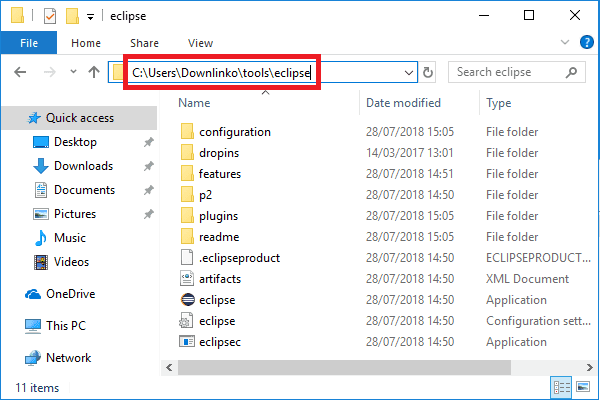
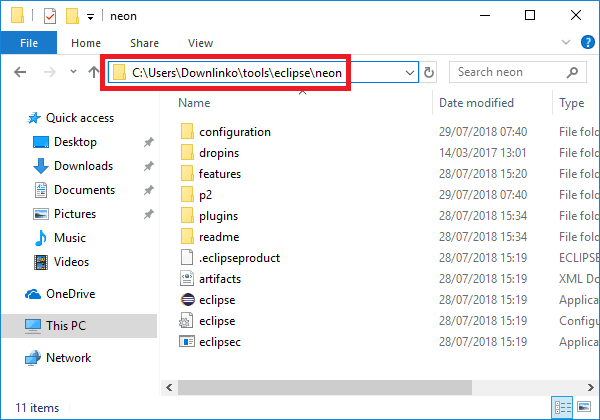
update posts

diff --git a/_posts/development/2018-07-21-download-install-eclipse-mars-windows.md b/_posts/development/2018-07-21-download-install-eclipse-mars-windows.md
@@ -23,15 +23,20 @@ I'll also guide you through the different installation steps.
 
 Let’s go!
 
+Check following post if you are looking to download and install [Eclipse Neon]({{ site.url }}/download-install-eclipse-neon-windows.html) or [Eclipse Photon]({{ site.url }}/download-install-eclipse-photon-windows.html).
+{: .notice--primary}
+
 ## Step #1: Prerequisites
 
-Eclipse requires [Java](http://www.oracle.com/technetwork/java/javase/downloads/index.html){:target="_blank"} to work. Let's check if you have Java installed on your system.
+Eclipse requires [Java](http://www.oracle.com/technetwork/java/javase/downloads/index.html){:target="_blank"} to run. Let's check if you have Java installed on your system.
 
-Click on the Windows button. Then type "<kbd>cmd</kbd>" in the search box and press `ENTER`.
+Click on the Windows button. Then type "<kbd>cmd</kbd>" in the search box.
+
+Click on the `cmd` shortcut.
 
 <img src="{{ site.url }}/assets/images/posts/development/windows-search-cmd.png" alt="windows search cmd">
 
-Click on the `cmd` shortcut. Wait for the command prompt to open.
+Wait for the command prompt to open.
 
 Type "<kbd>java -version</kbd>" and press `ENTER`.
 
@@ -47,6 +52,8 @@ It also prints the whether you have the 32 or 64-bit version of Java.
 
 > Take note of this as you will need it in the next step.
 
+If you do not have Java installed on your system. Check following post which details [how to install a Java Development Kit on Windows 10]({{ site.url }}/download-install-jdk-8-windows.html).
+
 ## Step #2: Download
 
 Head over to the [Eclipse Mars 2 Packages](https://www.eclipse.org/downloads/packages/release/mars/2){:target="_blank"} download page.
@@ -61,7 +68,7 @@ In this guide we will install the 64-bit version.
 
 Wait for the download to complete.
 
-> Some download mirrors might return a `404 Not Found` error. Here is a direct link to download the [32 Bit](http://mirror.csclub.uwaterloo.ca/eclipse/technology/epp/downloads/release/mars/2/eclipse-jee-mars-2-win32.zip){:target="_blank"} or [64 Bit](http://mirror.csclub.uwaterloo.ca/eclipse/technology/epp/downloads/release/mars/2/eclipse-jee-mars-2-win32-x86_64.zip){:target="_blank"} package for Windows.
+> Do you want to skip the above steps? Here is a direct link to download the [32 Bit](http://mirror.csclub.uwaterloo.ca/eclipse/technology/epp/downloads/release/mars/2/eclipse-jee-mars-2-win32.zip){:target="_blank"} or [64 Bit](http://mirror.csclub.uwaterloo.ca/eclipse/technology/epp/downloads/release/mars/2/eclipse-jee-mars-2-win32-x86_64.zip){:target="_blank"} package for Windows.
 
 ## Step #3: Install
 
@@ -75,11 +82,11 @@ Right-click the ZIP archive file. Select `Extract All…`.
 
 Select an extract destination for the Eclipse Mars files.
 
-In this example, we extract in `C:\Users\Downlinko\tools`.
+In this example, we extract in `C:\Users\Downlinko\tools\eclipse\mars`.
 
-<img src="{{ site.url }}/assets/images/posts/development/tools-extract-destination.png" alt="tools-extract-destination">
+<img src="{{ site.url }}/assets/images/posts/development/eclipse/eclipse-mars-extract-destination.png" alt="eclipse mars extract destination">
 
-Click on `Extract`. This extracts all Eclipse Mars files under `C:\Users\Downlinko\tools\eclipse`.
+Click on `Extract`. This extracts all Eclipse Mars files under `C:\Users\Downlinko\tools\eclipse\mars`.
 
 > From now on we refer to this location as `[ECLIPSE_MARS_INSTALL_DIR]`.
 
@@ -93,11 +100,19 @@ Located the `Application` file called `eclipse` and double-click on it.
 
 <img src="{{ site.url }}/assets/images/posts/development/eclipse/eclipse-mars-executable.png" alt="eclipse mars executable">
 
+On Windows 10 a pop-up window will appear: `The app you're trying to install isn't a verified app from the Store`
+
+Click on `Install anyway`.
+
+<img src="{{ site.url }}/assets/images/posts/windows-10-install-app-not-in-store.png" alt="windows 10 install app not in store">
+
 Eclipse will start and prompt for a default workspace location.
+
+If needed change the default location and click `OK`.
 
 <img src="{{ site.url }}/assets/images/posts/development/eclipse/eclipse-workspace-default-location.png" alt="eclipse workspace default location">
 
-If needed change the default location and click `OK`.
+Wait for Eclipse Mars to open.
 
 <img src="{{ site.url }}/assets/images/posts/development/eclipse/eclipse-mars-workspace.png" alt="eclipse mars workspace">
 

diff --git a/_posts/development/2018-07-29-download-install-eclipse-neon-windows.md b/_posts/development/2018-07-29-download-install-eclipse-neon-windows.md
@@ -23,15 +23,20 @@ I'll also guide you through the different installation steps.
 
 Let’s go!
 
+Check following post if you are looking to download and install [Eclipse Mars]({{ site.url }}/download-install-eclipse-mars-windows.html) or [Eclipse Photon]({{ site.url }}/download-install-eclipse-photon-windows.html).
+{: .notice--primary}
+
 ## Step #1: Prerequisites
 
-Eclipse requires [Java](http://www.oracle.com/technetwork/java/javase/downloads/index.html){:target="_blank"} to work. Let's check if you have Java installed on your system.
+Eclipse requires [Java](http://www.oracle.com/technetwork/java/javase/downloads/index.html){:target="_blank"} to run. Let's check if you have Java installed on your system.
 
-Click on the Windows button. Then type "<kbd>cmd</kbd>" in the search box and press `ENTER`.
+Click on the Windows button. Then type "<kbd>cmd</kbd>" in the search box.
+
+Click on the `cmd` shortcut.
 
 <img src="{{ site.url }}/assets/images/posts/development/windows-search-cmd.png" alt="windows search cmd">
 
-Click on the `cmd` shortcut. Wait for the command prompt to open.
+Wait for the command prompt to open.
 
 Type "<kbd>java -version</kbd>" and press `ENTER`.
 
@@ -47,6 +52,8 @@ It also prints the whether you have the 32 or 64-bit version of Java.
 
 > Take note of this as you will need it in the next step.
 
+If you do not have Java installed on your system. Check following post which details [how to install a Java Development Kit on Windows 10]({{ site.url }}/download-install-jdk-8-windows.html).
+
 ## Step #2: Download
 
 Head over to the [Eclipse Neon Packages](https://www.eclipse.org/downloads/packages/release/neon/3){:target="_blank"} download page.
@@ -61,7 +68,7 @@ In this guide we will install the 64-bit version.
 
 Wait for the download to complete.
 
-> Some download mirrors might return a `404 Not Found` error. Here is a direct link to download the [32 Bit](http://mirror.csclub.uwaterloo.ca/eclipse/technology/epp/downloads/release/neon/2/eclipse-jee-neon-3-win32.zip){:target="_blank"} or [64 Bit](http://mirror.csclub.uwaterloo.ca/eclipse/technology/epp/downloads/release/neon/2/eclipse-jee-neon-3-win32-x86_64.zip){:target="_blank"} package for Windows.
+> Do you want to skip the above steps? Here is a direct link to download the [32 Bit](http://mirror.csclub.uwaterloo.ca/eclipse/technology/epp/downloads/release/neon/2/eclipse-jee-neon-3-win32.zip){:target="_blank"} or [64 Bit](http://mirror.csclub.uwaterloo.ca/eclipse/technology/epp/downloads/release/neon/2/eclipse-jee-neon-3-win32-x86_64.zip){:target="_blank"} package for Windows.
 
 ## Step #3: Install
 
@@ -75,11 +82,11 @@ Right-click the ZIP archive file. Select `Extract All...`.
 
 Select an extract destination for the Eclipse Neon files.
 
-In this example, we extract in `C:\Users\Downlinko\tools`.
+In this example, we extract in `C:\Users\Downlinko\tools\eclipse\neon`.
 
-<img src="{{ site.url }}/assets/images/posts/development/tools-extract-destination.png" alt="tools-extract-destination">
+<img src="{{ site.url }}/assets/images/posts/development/eclipse/eclipse-neon-extract-destination.png" alt="eclipse neon extract destination">
 
-Click on `Extract`. This extracts all Eclipse Neon files under `C:\Users\Downlinko\tools\eclipse`.
+Click on `Extract`. This extracts all Eclipse Neon files under `C:\Users\Downlinko\tools\eclipse\neon`.
 
 > From now on we refer to this location as `[ECLIPSE_NEON_INSTALL_DIR]`.
 
@@ -92,6 +99,12 @@ To run Eclipse Neon navigate to the `[ECLIPSE_NEON_INSTALL_DIR]` installation di
 Located the `Application` file called `eclipse` and double-click on it.
 
 <img src="{{ site.url }}/assets/images/posts/development/eclipse/eclipse-neon-executable.png" alt="eclipse neon executable">
+
+On Windows 10 a pop-up window will appear: `The app you're trying to install isn't a verified app from the Store`
+
+Click on `Install anyway`.
+
+<img src="{{ site.url }}/assets/images/posts/windows-10-install-app-not-in-store.png" alt="windows 10 install app not in store">
 
 Eclipse will start and prompt for a default workspace location.
 

diff --git a/_posts/development/2018-08-21-download-install-eclipse-photon-windows.md b/_posts/development/2018-08-21-download-install-eclipse-photon-windows.md
@@ -32,9 +32,11 @@ Eclipse requires [Java](http://www.oracle.com/technetwork/java/javase/downloads/
 
 Click on the Windows button. Then type "<kbd>cmd</kbd>" in the search box.
 
+Click on the `cmd` shortcut.
+
 <img src="{{ site.url }}/assets/images/posts/development/windows-search-cmd.png" alt="windows search cmd">
 
-Click on the `cmd` shortcut. Wait for the command prompt to open.
+Wait for the command prompt to open.
 
 Type "<kbd>java -version</kbd>" and press `ENTER`.
 
